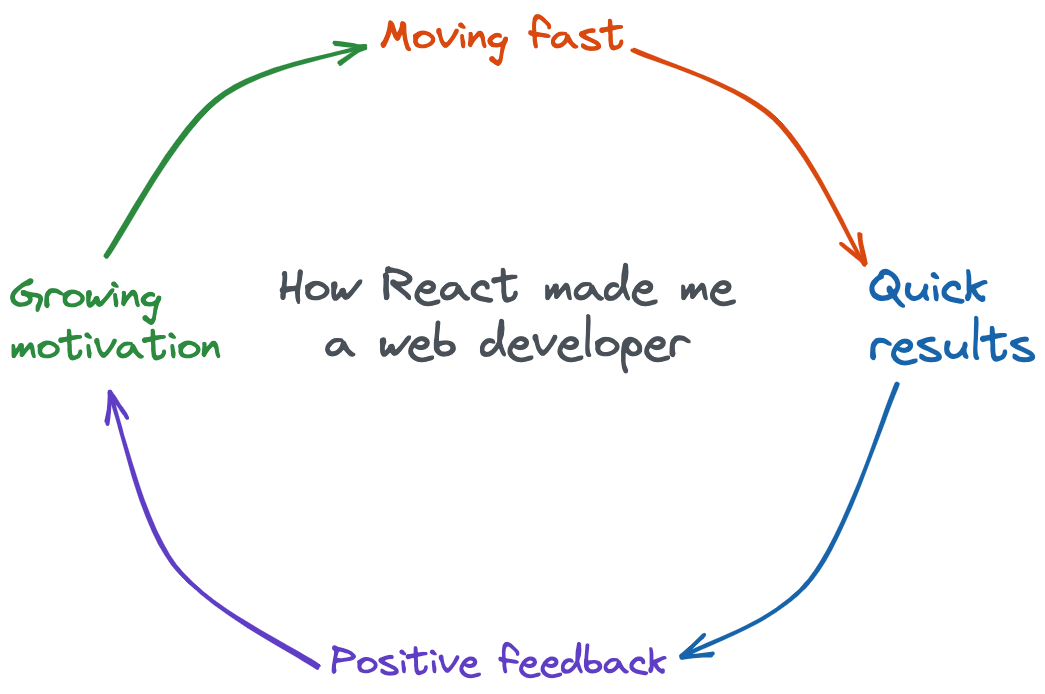
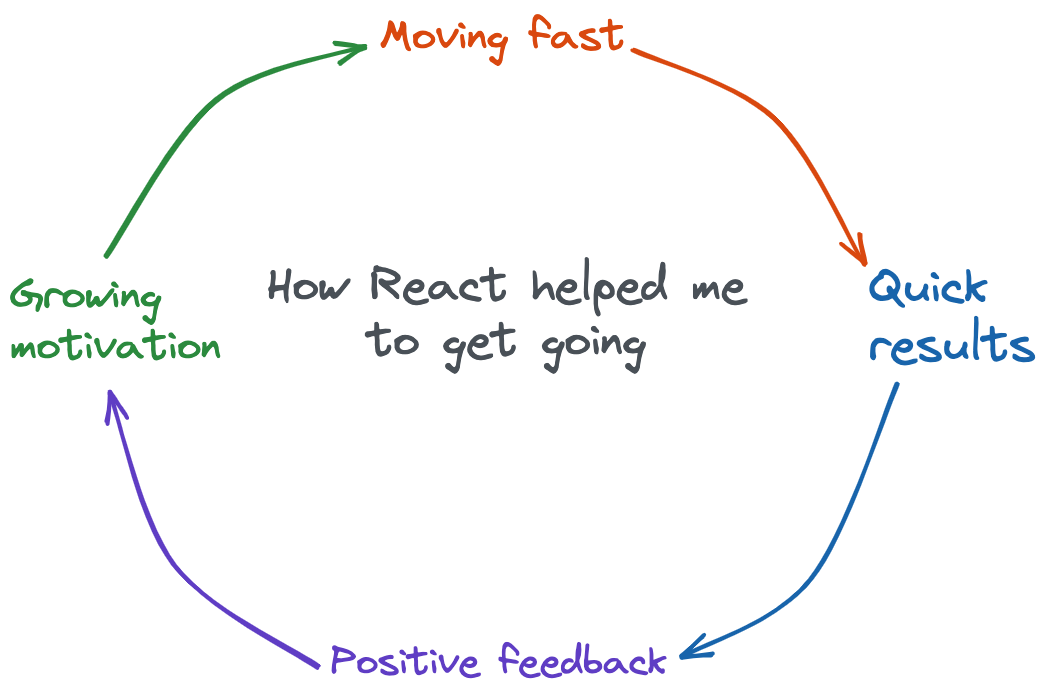
update graphic

Changed region(s): [[0.245, 0.3631, 0.7349, 0.5447]]

diff --git a/contents/articles/2023-03-11_web_standards_and_react.md b/contents/articles/2023-03-11_web_standards_and_react.md
@@ -3,7 +3,7 @@ date: 2023-03-11
 title: My experience with web standards and React
 description: Why I am learning web standards and doing less with React.
 categories: [React, Remix.run]
-imageUrl: https://res.cloudinary.com/andre-landgraf/image/upload/f_auto,q_auto/v1678608694/andrelandgraf.dev/how-react-made-me-a-web-dev_dfxxwk.png
+imageUrl: https://res.cloudinary.com/andre-landgraf/image/upload/f_auto,q_auto/v1678651924/andrelandgraf.dev/how-react-made-me-a-web-dev_hi1nwx.png
 imageAltText: Circle showing the relationship between moving fast, quick results, positive feedback, and growing motivation. Moving fast enables quick results which results in positive feedback, which in turn motivates to keep moving fast.
 ---
 
@@ -29,7 +29,7 @@ I used much of the following summer to go through React and JavaScript content f
 
 Above all things, React allowed me to ignore the complexity of the web platform. Instead of trying to learn different web and browser APIs all at once, I turned every problem I encountered into a React problem. This allowed me to get good at one thing and move fast. Something that turned out to be very rewarding.
 
-![Circle showing the relationship between moving fast, quick results, positive feedback, and growing motivation. Moving fast enables quick results which results in positive feedback, which in turn motivates to keep moving fast.](https://res.cloudinary.com/andre-landgraf/image/upload/f_auto,q_auto/v1678608694/andrelandgraf.dev/how-react-made-me-a-web-dev_dfxxwk.png)
+![Circle showing the relationship between moving fast, quick results, positive feedback, and growing motivation. Moving fast enables quick results which results in positive feedback, which in turn motivates to keep moving fast.](https://res.cloudinary.com/andre-landgraf/image/upload/f_auto,q_auto/v1678651924/andrelandgraf.dev/how-react-made-me-a-web-dev_hi1nwx.png)
 
 ## Back to the web platform
 
